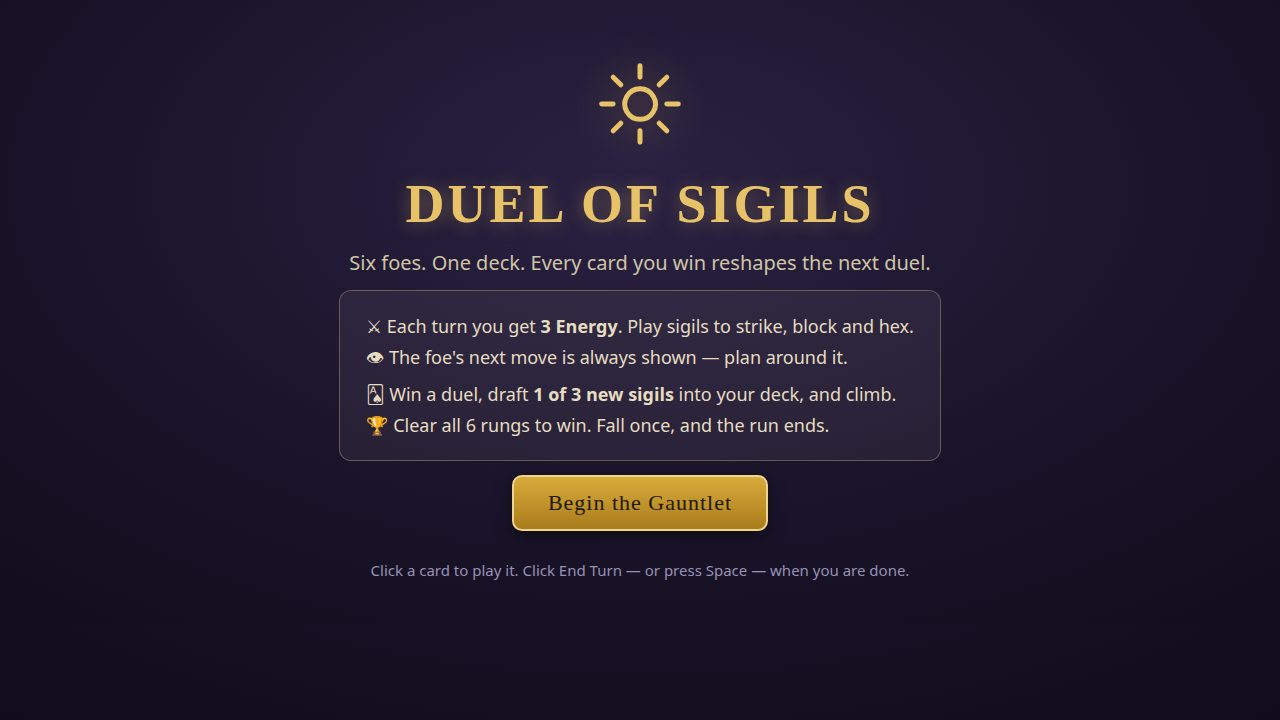
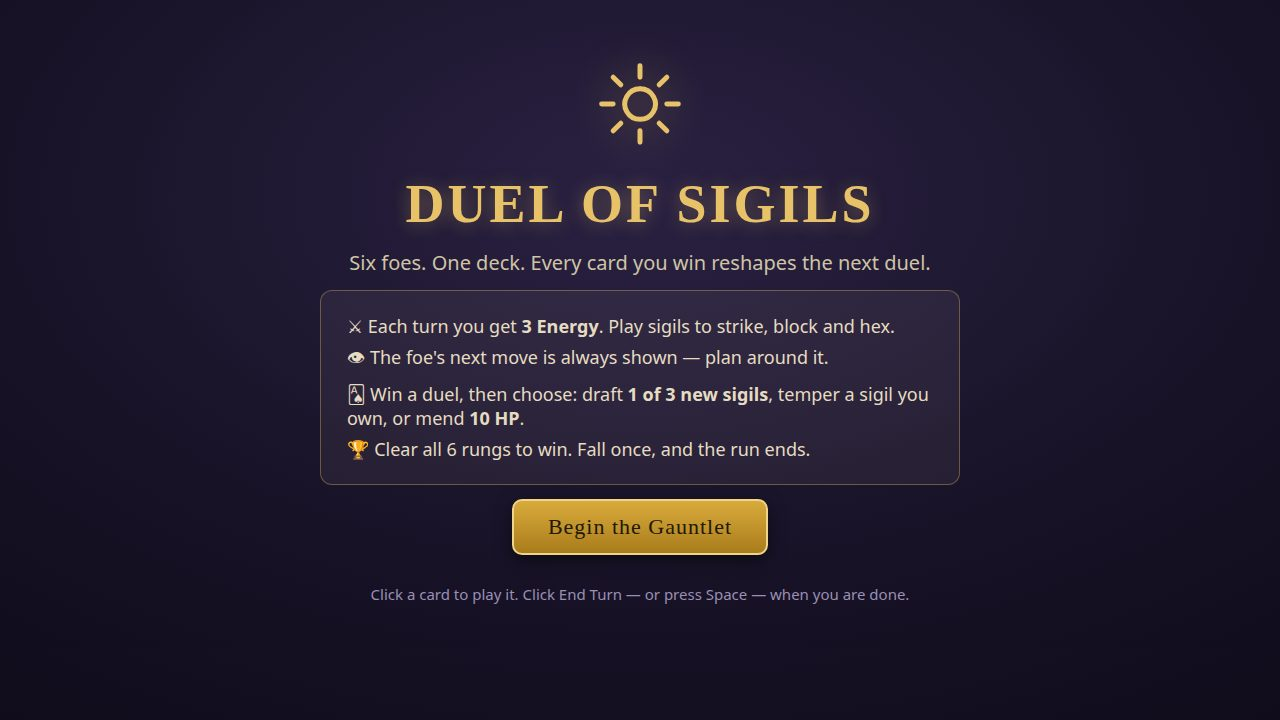
Duel of Sigils v2: three-way draft (card / temper / heal) and shuffled gauntlet with two new foes

Changed region(s): [[0.25, 0.4278, 0.7188, 0.8556]]

diff --git a/game/src/render.js b/game/src/render.js
@@ -30,6 +30,8 @@ const GLYPH_PATHS = {
   thorn: 'M24 42 V20 M24 20 C24 12 18 10 12 10 C12 18 17 22 24 20 M24 16 C24 9 30 6 36 7 C35 14 30 17 24 16 M14 30 l-6 2 M34 30 l6 2',
   herald: 'M10 30 L30 18 M30 18 a6 6 0 1 1 6 6 l-8 2 Z M12 30 v10 M8 40 h10',
   eater: 'M8 16 a16 16 0 1 1 0.1 0 M16 26 l4 6 4-6 4 6 4-6 M18 18 h.1 M30 18 h.1',
+  wisp: 'M24 6 C30 14 38 18 38 28 a14 14 0 0 1 -28 0 C10 20 18 14 24 6 Z M20 34 l4 5 4-5',
+  warden: 'M24 6 L40 12 V26 C40 34 32 40 24 42 C16 40 8 34 8 26 V12 Z M24 14 v16 M16 20 h16',
 };
 
 export function glyphSvg(glyph, color = 'currentColor', size = 44) {
@@ -73,7 +75,7 @@ export function renderTitle(app, { onStart }) {
     <div class="howto">
       <p>⚔ Each turn you get <b>3 Energy</b>. Play sigils to strike, block and hex.</p>
       <p>👁 The foe's next move is always shown — plan around it.</p>
-      <p>🂡 Win a duel, draft <b>1 of 3 new sigils</b> into your deck, and climb.</p>
+      <p>🂡 Win a duel, then choose: draft <b>1 of 3 new sigils</b>, temper a sigil you own, or mend <b>10 HP</b>.</p>
       <p>🏆 Clear all ${gauntletLength()} rungs to win. Fall once, and the run ends.</p>
     </div>
     <button class="big-btn" id="start-btn">Begin the Gauntlet</button>
@@ -132,18 +134,34 @@ export function renderBattle(app, battle, { onPlayCard, onEndTurn, rung, muted, 
   app.querySelector('#mute-btn').addEventListener('click', onToggleMute);
 }
 
-export function renderDraft(app, { choices, foeName, onPick }) {
+export function renderDraft(app, { choices, foeName, upgrade, canHeal, onPick, onUpgrade, onHeal }) {
+  const upgradeLabel = upgrade
+    ? `Temper ${cardDef(upgrade.from).name} → ${cardDef(upgrade.to).name}`
+    : 'Nothing left to temper';
+  const upgradeText = upgrade
+    ? `${cardDef(upgrade.from).text} becomes ${cardDef(upgrade.to).text}`
+    : 'Every temperable sigil in your deck is already honed.';
   app.innerHTML = `<section class="screen draft-screen">
     <h1>${foeName} falls.</h1>
-    <p class="tagline">The fallen foe's sigils scatter. Take <b>one</b> into your deck — it stays for every duel to come.</p>
+    <p class="tagline">The fallen foe's sigils scatter. Choose <b>one</b> reward — it stays for every duel to come.</p>
     <div class="draft-row">${choices.map((id) =>
       `<div class="draft-slot">${cardHtml(id, { playable: true })}<button class="big-btn take-btn" data-pick="${id}">Take ${cardDef(id).name}</button></div>`,
     ).join('')}</div>
+    <div class="draft-alt">
+      <button class="big-btn alt-btn" data-upgrade ${upgrade ? '' : 'disabled'}>${upgradeLabel}</button>
+      <span class="alt-text">${upgradeText}</span>
+      <button class="big-btn alt-btn" data-heal ${canHeal ? '' : 'disabled'}>Mend Wounds · +10 HP</button>
+      <span class="alt-text">Restore 10 HP before the next rung.</span>
+    </div>
     <p class="hint">Choose for the foes ahead, not the one behind you.</p>
   </section>`;
   app.querySelectorAll('[data-pick]').forEach((el) => {
     el.addEventListener('click', () => onPick(el.dataset.pick));
   });
+  const upBtn = app.querySelector('[data-upgrade]');
+  if (upBtn && onUpgrade) upBtn.addEventListener('click', onUpgrade);
+  const healBtn = app.querySelector('[data-heal]');
+  if (healBtn && onHeal) healBtn.addEventListener('click', onHeal);
 }
 
 export function renderEnd(app, { cleared, run, score, onRestart }) {

diff --git a/game/src/main.js b/game/src/main.js
@@ -4,9 +4,8 @@
 // matching sound for what happened, and hands every finished state to
 // render.js. With ?shot=<screen> it stages that screen for screenshots.
 
-import { createBattle, playCard, endTurn } from './battle.js';
-import { createRun, draftChoices, applyDraft, recordWin, recordLoss, runCleared, finalScore } from './run.js';
-import { enemyAt } from './enemies.js';
+import { createBattle, playCard, endTurn, PLAYER_MAX_HP } from './battle.js';
+import { createRun, draftChoices, applyDraft, applyUpgrade, applyHeal, upgradeOption, recordWin, recordLoss, runCleared, finalScore } from './run.js';
 import { renderTitle, renderBattle, renderDraft, renderEnd } from './render.js';
 import { sfx, setMuted, isMuted } from './audio.js';
 import { mulberry32, stagedBattle, stagedDraft, stagedEnd } from './shots.js';
@@ -16,7 +15,7 @@ const params = new URLSearchParams(location.search);
 const seed = params.has('seed') ? Number(params.get('seed')) : (Date.now() % 2147483647);
 const rng = mulberry32(seed);
 
-let run = createRun();
+let run = createRun(rng);
 let battle = null;
 
 function showBattle() {
@@ -66,7 +65,7 @@ document.addEventListener('keydown', (event) => {
 
 function startDuel() {
   battle = createBattle({
-    deckIds: run.deck, foeDef: enemyAt(run.rung), rng, playerHp: run.hp,
+    deckIds: run.deck, foeDef: run.gauntlet[run.rung], rng, playerHp: run.hp,
   });
   sfx.draw();
   showBattle();
@@ -83,9 +82,23 @@ function winDuel() {
   const choices = draftChoices(rng);
   renderDraft(app, {
     choices, foeName,
+    upgrade: upgradeOption(run),
+    canHeal: run.hp < PLAYER_MAX_HP,
     onPick: (id) => {
       applyDraft(run, id);
       sfx.draft();
+      startDuel();
+    },
+    onUpgrade: () => {
+      const opt = upgradeOption(run);
+      if (opt && applyUpgrade(run, opt.from)) {
+        sfx.draft();
+        startDuel();
+      }
+    },
+    onHeal: () => {
+      applyHeal(run);
+      sfx.heal();
       startDuel();
     },
   });
@@ -101,14 +114,14 @@ function loseRun() {
 function showEnd(cleared) {
   renderEnd(app, {
     cleared, run, score: finalScore(run),
-    onRestart: () => { run = createRun(); sfx.click(); startDuel(); },
+    onRestart: () => { run = createRun(rng); sfx.click(); startDuel(); },
   });
   app.dataset.ready = '1';
 }
 
 function showTitle() {
   renderTitle(app, {
-    onStart: () => { run = createRun(); sfx.draft(); startDuel(); },
+    onStart: () => { run = createRun(rng); sfx.draft(); startDuel(); },
   });
   app.dataset.ready = '1';
 }
@@ -126,7 +139,8 @@ if (shot === 'battle') {
   run = staged.run;
   renderDraft(app, {
     choices: staged.choices, foeName: staged.foeName,
-    onPick: () => {},
+    upgrade: staged.upgrade, canHeal: staged.canHeal,
+    onPick: () => {}, onUpgrade: () => {}, onHeal: () => {},
   });
   app.dataset.ready = '1';
 } else if (shot === 'end') {

diff --git a/game/src/run.js b/game/src/run.js
@@ -1,22 +1,25 @@
 // run.js — one run of the gauntlet: the deck you carry, the HP you keep
 // between duels, the rung you have reached, and the draft that follows each
-// victory. Winning a duel restores a little HP and offers three cards, of
-// which exactly one joins the deck — the run is a series of those choices,
-// so two runs with the same wins can arrive at the boss with different decks.
+// victory. The draft is a three-way choice now: take a new sigil, temper a
+// sigil you already own, or mend wounds — the run is a series of those
+// choices, so two runs with the same wins can arrive at the boss with
+// different decks, different tempered cards and different HP.
 
-import { STARTER_DECK, DRAFT_POOL } from './cards.js';
+import { STARTER_DECK, DRAFT_POOL, UPGRADE_MAP } from './cards.js';
 import { PLAYER_MAX_HP } from './battle.js';
-import { gauntletLength } from './enemies.js';
+import { gauntletLength, buildGauntlet } from './enemies.js';
 
 export const HEAL_AFTER_WIN = 6;
+export const HEAL_DRAFT = 10;
 
-export function createRun() {
+export function createRun(rng) {
   return {
     deck: [...STARTER_DECK],
     hp: PLAYER_MAX_HP,
     rung: 0,
     duelsWon: 0,
     draftsTaken: 0,
+    gauntlet: buildGauntlet(rng),
   };
 }
 
@@ -33,6 +36,31 @@ export function draftChoices(rng) {
 
 export function applyDraft(run, cardId) {
   run.deck.push(cardId);
+  run.draftsTaken += 1;
+}
+
+// The temper choice: hone the first upgradeable sigil in the deck into its
+// tempered form. Returns the { from, to } pair, or null when nothing in the
+// deck can be honed (a deck of only tempered and draft cards).
+export function upgradeOption(run) {
+  for (const from of Object.keys(UPGRADE_MAP)) {
+    if (run.deck.includes(from)) return { from, to: UPGRADE_MAP[from] };
+  }
+  return null;
+}
+
+export function applyUpgrade(run, fromId) {
+  const toId = UPGRADE_MAP[fromId];
+  const at = run.deck.indexOf(fromId);
+  if (!toId || at < 0) return false;
+  run.deck[at] = toId;
+  run.draftsTaken += 1;
+  return true;
+}
+
+// The mend choice: restore HP after a victory, capped at the maximum.
+export function applyHeal(run) {
+  run.hp = Math.min(PLAYER_MAX_HP, run.hp + HEAL_DRAFT);
   run.draftsTaken += 1;
 }
 

diff --git a/game/src/enemies.js b/game/src/enemies.js
@@ -69,7 +69,51 @@ export const ENEMIES = [
       { label: 'Ward self', block: 14 },
     ],
   },
+  // V2 foes: they never appear as the boss, only as shuffled mid-gauntlet
+  // rungs, so no two runs climb the same ladder.
+  {
+    name: 'Cinder Wisp', glyph: 'wisp', hp: 30, tint: '#e88a4a',
+    intro: 'It burns bright and burns out — its flare hurts most when you let it build.',
+    intents: [
+      { label: 'Ember spit', hit: 6 },
+      { label: 'Flare', hit: 10, when: (foe) => foe.hp <= foe.maxHp / 2 },
+      { label: 'Kindle', buff: 2 },
+      { label: 'Ember spit', hit: 6 },
+    ],
+  },
+  {
+    name: 'Mirror Warden', glyph: 'warden', hp: 44, tint: '#a8b8d8',
+    intro: 'It answers every blow with a harder shell. Break the mirror in one big hit.',
+    intents: [
+      { label: 'Mirror edge', hit: 8 },
+      { label: 'Harden', block: 12 },
+      { label: 'Reflective ward', block: 8, thorns: 1 },
+      { label: 'Mirror edge', hit: 8 },
+    ],
+  },
 ];
+
+export const BOSS_NAME = 'Sigil Eater';
+export const OPENER_NAME = 'Hollow Imp';
+export const GAUNTLET_RUNGS = 6;
+
+// One run's gauntlet: the Hollow Imp always opens (the easy first lesson),
+// the Sigil Eater always closes, and the four middle rungs are four of the
+// six remaining foes, shuffled — so no two runs climb the same ladder, but
+// the difficulty curve never inverts. With no rng the classic order is kept,
+// so staged screenshots stay stable.
+export function buildGauntlet(rng) {
+  const boss = ENEMIES.find((foe) => foe.name === BOSS_NAME);
+  const opener = ENEMIES.find((foe) => foe.name === OPENER_NAME);
+  const rest = ENEMIES.filter((foe) => foe.name !== BOSS_NAME && foe.name !== OPENER_NAME);
+  if (!rng) return [opener, ...rest.slice(0, GAUNTLET_RUNGS - 2), boss];
+  const pile = [...rest];
+  for (let i = pile.length - 1; i > 0; i--) {
+    const j = Math.floor(rng() * (i + 1));
+    [pile[i], pile[j]] = [pile[j], pile[i]];
+  }
+  return [opener, ...pile.slice(0, GAUNTLET_RUNGS - 2), boss];
+}
 
 export function enemyAt(index) {
   const foe = ENEMIES[index];
@@ -78,5 +122,5 @@ export function enemyAt(index) {
 }
 
 export function gauntletLength() {
-  return ENEMIES.length;
+  return GAUNTLET_RUNGS;
 }

diff --git a/game/src/cards.js b/game/src/cards.js
@@ -74,7 +74,23 @@ export const CARD_DEFS = {
     text: 'Deal 15 damage.',
     effects: { damage: 15 },
   },
+  // Tempered versions: the same sigil, honed after a victory. They only ever
+  // enter a deck through the draft's "temper" choice, never the card draft.
+  strike_plus: {
+    name: 'Tempered Strike', cost: 1, kind: 'attack', glyph: 'sword',
+    text: 'Deal 9 damage.',
+    effects: { damage: 9 },
+  },
+  guard_plus: {
+    name: 'Tempered Guard', cost: 1, kind: 'skill', glyph: 'shield',
+    text: 'Gain 8 Block. Block absorbs damage until your next turn.',
+    effects: { block: 8 },
+  },
 };
+
+// One temper per draft: a starter sigil in the deck is honed into its
+// tempered form. Strike is honed first; Guard if no Strike remains.
+export const UPGRADE_MAP = { strike: 'strike_plus', guard: 'guard_plus' };
 
 // The deck every run starts with: ten cards, no choices made yet.
 export const STARTER_DECK = [

diff --git a/game/src/battle.js b/game/src/battle.js
@@ -77,7 +77,10 @@ export function intentSummary(battle) {
       ? `attacks for ${per} × ${intent.hits}`
       : `attacks for ${per}`;
   }
-  if (intent.block) return `gains ${intent.block} Block`;
+  if (intent.block) {
+    const thorns = intent.thorns ? ` and grows thorns (reflects ${intent.thorns})` : '';
+    return `gains ${intent.block} Block${thorns}`;
+  }
   if (intent.buff) return `grows stronger (+${intent.buff} damage)`;
   if (intent.thorns) return `grows thorns (reflects ${intent.thorns})`;
   if (intent.heal) return `feeds and heals ${intent.heal}`;

diff --git a/game/style.css b/game/style.css
@@ -155,6 +155,10 @@ h1 {
 .draft-slot { display: flex; flex-direction: column; align-items: center; gap: 12px; }
 .draft-slot .card { cursor: default; }
 .take-btn { font-size: 18px; padding: 10px 20px; }
+.draft-alt { display: flex; flex-direction: column; align-items: center; gap: 6px; margin-top: 22px; }
+.alt-btn { font-size: 16px; padding: 9px 18px; }
+.alt-btn:disabled { opacity: .45; cursor: default; }
+.alt-text { font-size: 13.5px; color: #9a8fb5; margin-bottom: 8px; }
 
 .scoreboard { display: flex; gap: 16px; margin: 10px 0 6px; }
 .scoreboard > div {

diff --git a/game/src/shots.js b/game/src/shots.js
@@ -45,7 +45,10 @@ export function stagedDraft() {
   run.rung = 2;
   run.duelsWon = 2;
   run.hp = 31;
-  return { run, choices: ['bulwark', 'siphon', 'twinfang'], foeName: enemyAt(1).name };
+  return {
+    run, choices: ['bulwark', 'siphon', 'twinfang'], foeName: enemyAt(1).name,
+    upgrade: { from: 'strike', to: 'strike_plus' }, canHeal: true,
+  };
 }
 
 export function stagedEnd() {

diff --git a/README.md b/README.md
@@ -4,9 +4,9 @@
 [![rank](https://make.fun/badge/best-game-01/sastra-wev/duel-of-sigils/rank.svg)](https://make.fun/bounty/best-game-01/leaderboard?utm_source=github&utm_medium=readme&utm_campaign=best-game-01)
 [![reward](https://make.fun/badge/best-game-01/sastra-wev/duel-of-sigils/reward.svg)](https://make.fun/bounty/best-game-01?utm_source=github&utm_medium=readme&utm_campaign=best-game-01)
 
-**Duel of Sigils** is a turn-based card-duelling gauntlet for the browser. Six foes wait on six rungs — a Hollow Imp, an Ash Hound, a Gloom Scribe, a Thorn Revenant, the Pale Herald, and the Sigil Eater — and you climb past all of them with one deck and one life bar.
+**Duel of Sigils** is a turn-based card-duelling gauntlet for the browser. Eight foes wait in the tower — a Hollow Imp, an Ash Hound, a Gloom Scribe, a Thorn Revenant, the Pale Herald, a Cinder Wisp, a Mirror Warden, and the Sigil Eater — and each run climbs six rungs against five of them, shuffled, with the Sigil Eater always waiting at the top.
 
-Each turn you draw sigils and spend 3 Energy to play them: strikes, blocks, heals and hexes. The foe's next move is always telegraphed, so every turn is a decision — kill now, block the blow you can see coming, or set up a Vulnerable foe for a bigger hit. Win a duel and the fallen foe's sigils scatter: draft exactly one of three new cards into your deck, permanently. The deck you arrive at the boss with is the deck your choices built. Fall once and the run ends; your score is duels won, the HP you kept, and the drafts you took.
+Each turn you draw sigils and spend 3 Energy to play them: strikes, blocks, heals and hexes. The foe's next move is always telegraphed, so every turn is a decision — kill now, block the blow you can see coming, or set up a Vulnerable foe for a bigger hit. Win a duel and choose one reward: draft one of three new cards into your deck, temper a sigil you already own into its stronger form, or mend 10 HP. The deck you arrive at the boss with is the deck your choices built. Fall once and the run ends; your score is duels won, the HP you kept, and the drafts you took.
 
 Everything is original: the foes, the sigil glyphs (inline SVG runes), the parchment-and-gold art direction, and every sound, which is synthesised live with WebAudio — there are no asset files and no network requests. Static files only, no build step, no library: the whole game is hand-written ES modules.
 
@@ -22,7 +22,7 @@ Or serve the `game/` folder with any static file server and open `game/index.htm
 
 - Click a card to play it (its Energy cost is the gold coin on its corner).
 - Click **End Turn** — or press Space — when you are done; the foe then plays the move it telegraphed.
-- After each victory, click one of the three offered sigils to draft it.
+- After each victory, choose one reward: draft a new sigil, temper one you own, or mend 10 HP.
 - Staged scenes for screenshots: `?shot=title|battle|draft|end`, and `?seed=N` fixes the shuffle.
 
 ## Structure
